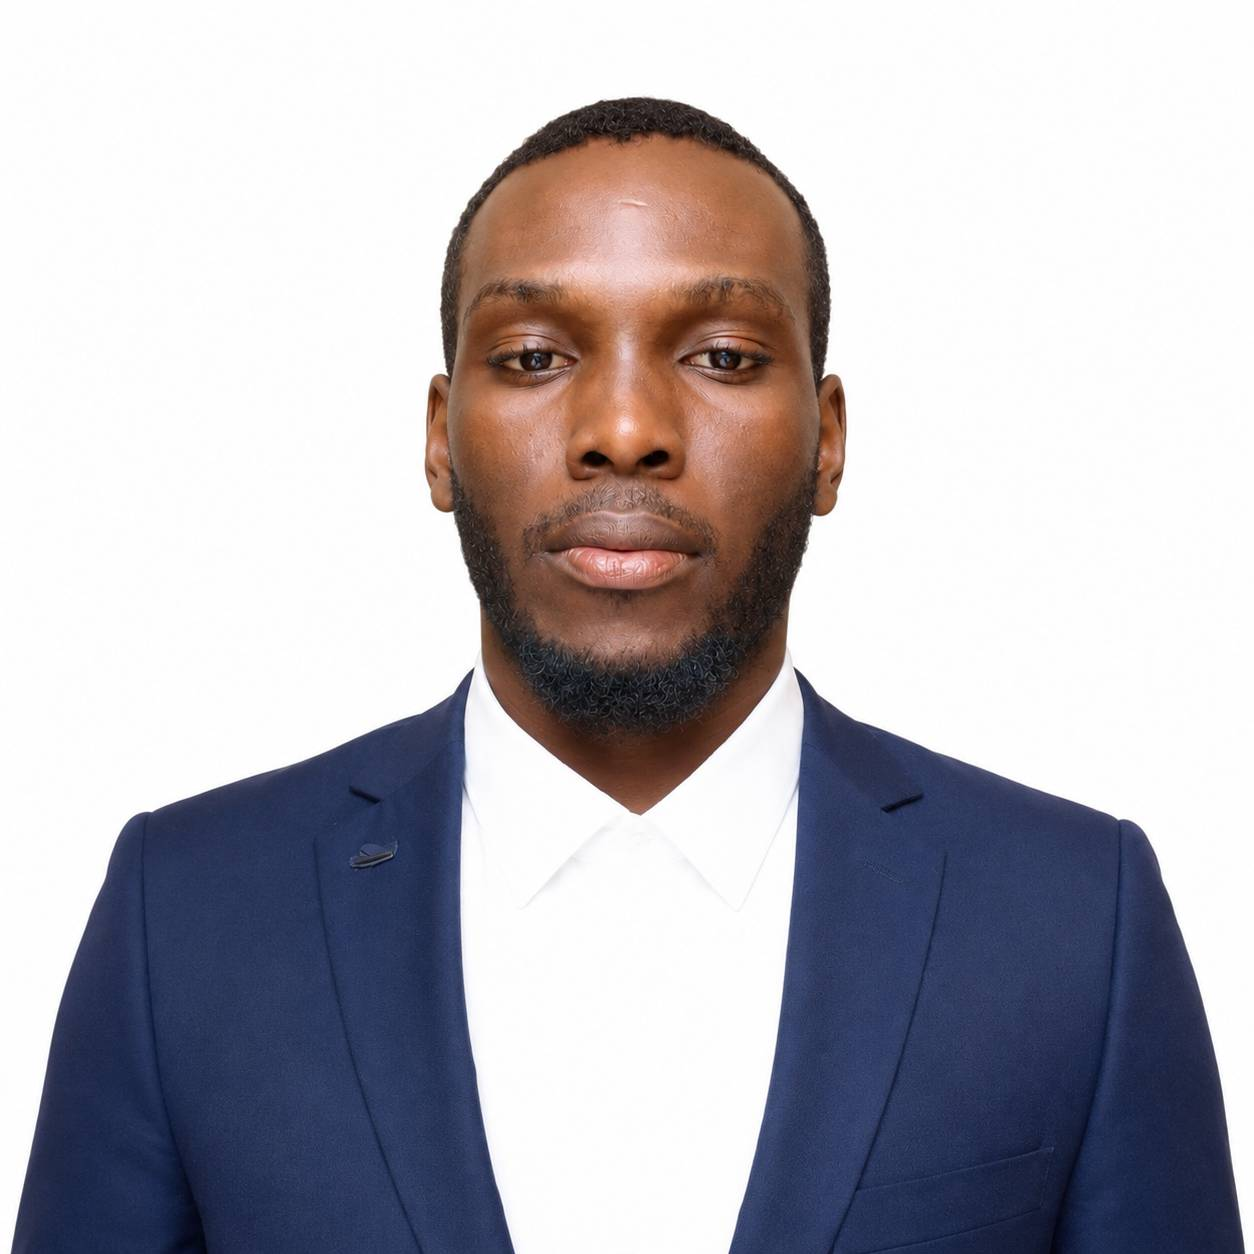
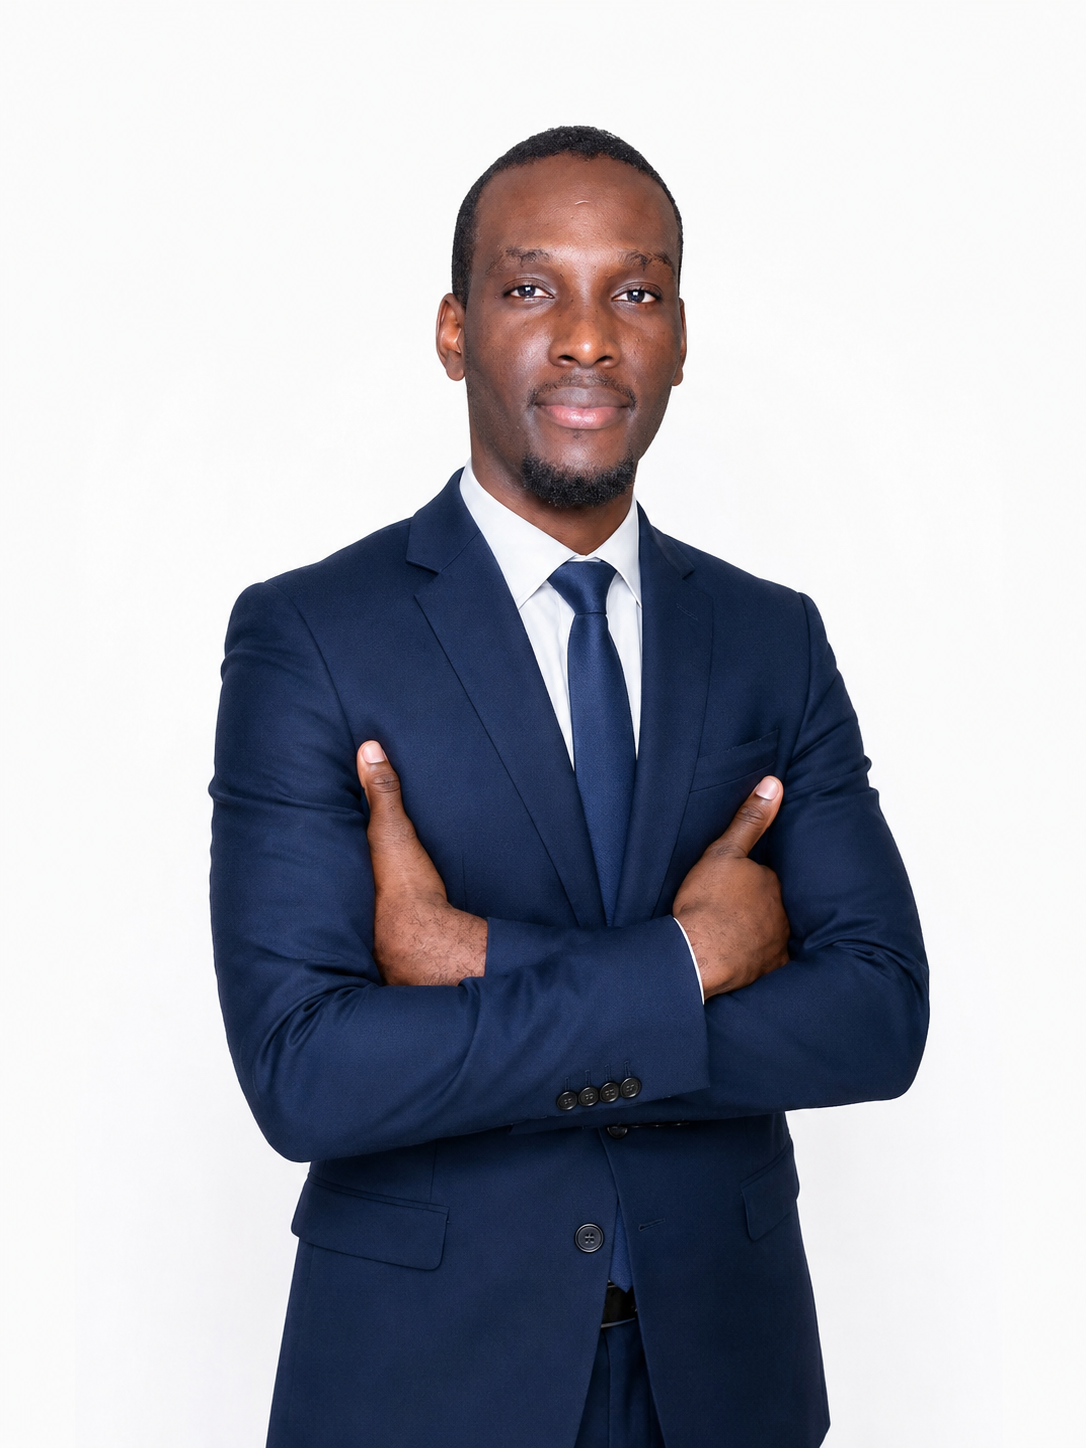
Atualização 01 | Projetos

diff --git a/index.html b/index.html
@@ -25,8 +25,8 @@
     <section class="hero">
         <div class="container">
             <h1>Olá, sou <span>Moniz Tomás</span></h1>
-            <p>Desenvolvedor [Web & Mobile], Designer Gráfico e Editor de Vídeo.</p>
-            <p>Vamos resolver os problemas juntos!</p>
+            <p>Desenvolvedor Web <!--[Web & Mobile]-->, Designer Gráfico <!--e Editor de Vídeo-->.</p>
+            <p>Vamos resolver o problema juntos!</p>
             <a href="#projetos" class="btn">Ver Projetos</a>
             <a href="#contato" class="btn btn-secondary">Falar Comigo</a>
         </div>
@@ -48,15 +48,15 @@
                     <!-- <p>Atualmente trabalhando num app de gestão de stock com leitura de código de barras e sincronização offline.</p> -->
                     <p><strong>Habilidades</strong></p>
                     <div class="skills">
-                        <span class="tag">React Native + Expo</span>
-                        <span class="tag">Gestão de Projetos</span>
+                        <!-- <span class="tag">React Native + Expo</span> -->
+                        <!-- <span class="tag">Gestão de Projetos</span> -->
                         <span class="tag">Word, Excell e PowerP.</span>
                         <span class="tag">Photoshop [Básico]</span>
-                        <span class="tag">ShotCut [Básico]</span>
+                        <!-- <span class="tag">ShotCut [Básico]</span> -->
                         <span class="tag">Finanças Pessoais</span>
                         <span class="tag">HTML5 + CSS3</span>
-                        <span class="tag">JS [Básico]</span>
-                        <span class="tag">PHP [Básico]</span>
+                        <!-- <span class="tag">JS [Básico]</span> -->
+                        <!-- <span class="tag">PHP [Básico]</span> -->
                         <span class="tag">Git & GitHub</span>
                         <span class="tag">MySQL [Básico]</span>
                     </div>
@@ -72,20 +72,18 @@
             <div class="grid-projetos">
                 <!-- Projeto 1 -->
                 <div class="card">
-                    <div class="card-img">App Stock</div>
+                    <div class="card-img"><img src="img/flyer.png" class="imgApp"></div>
                     <div class="card-body">
-                        <h3>App Gestão de Stock</h3>
-                        <p>Sistema mobile para controle de entrada e saída de produtos.</p>
+                        <h3>Flyer Social Media | Venda de tênis</h3>
+                        <p>Flyer para divulgação de produtos nas redes sociais.</p>
                         <div class="card-tech">
-                            <span>React Native</span>
-                            <span>Expo</span>
-                            <span>SQLite</span>
+                            <span>Photoshop</span>
                         </div>
                         <a href="#" class="btn">Ver detalhes</a>
                     </div>
                 <!-- Projeto 2 -->
                 <div class="card">
-                    <div class="card-img">Escola App</div>
+                    <div class="card-img"><img src="img/easydrive.png" class="imgApp"></div>
                     <div class="card-body">
                         <h3>Sistema Escola de Condução</h3>
                         <p>Plataforma web para gestão de alunos, aulas práticas e pagamentos... de uma escola de condução.</p>
@@ -99,14 +97,14 @@
                 </div>
                 <!-- Projeto 3 -->
                 <div class="card">
-                    <div class="card-img">API Delivery</div>
+                    <div class="card-img"><!--API Delivery-->Atualizando...</div>
                     <div class="card-body">
-                        <h3>API para Delivery Local</h3>
-                        <p>Backend completo com autenticação JWT, rotas para pedidos e integração com pagamentos móveis.</p>
+                        <h3><!--API para Delivery Local--></h3>
+                        <p><!--Backend completo com autenticação JWT, rotas para pedidos e integração com pagamentos móveis.--> </p>
                         <div class="card-tech">
-                            <span>Node.js</span>
-                            <span>Express</span>
-                            <span>Postgres</span>
+                            <span><!--Node.js--></span>
+                            <span><!--Express--></span>
+                            <span><!--Postgres--></span>
                         </div>
                         <a href="#" class="btn">Ver detalhes</a>
                     </div>
@@ -124,7 +122,7 @@
                 <div class="contato-links">
                     <a href="mailto:[email redacted]">Enviar E-mail</a>
                     <a href="https://github.com/MonizTomas/" target="_blank">GitHub</a>
-                    <!-- <a href="https://linkedin.com/" target="_blank">LinkedIn</a> -->
+                    <a href="https://www.linkedin.com/in/moniz-tom%C3%A1s-57a440412/" target="_blank">LinkedIn</a>
                     <a href="https://wa.me/244941371301" target="_blank">WhatsApp</a>
                 </div>
             </div>

diff --git a/css/style.css b/css/style.css
@@ -220,6 +220,10 @@
             font-weight: 600;
         }
 
+        .imgApp {
+            height: 180px;
+        }
+
         .card-body {
             padding: 1.5rem;
         }